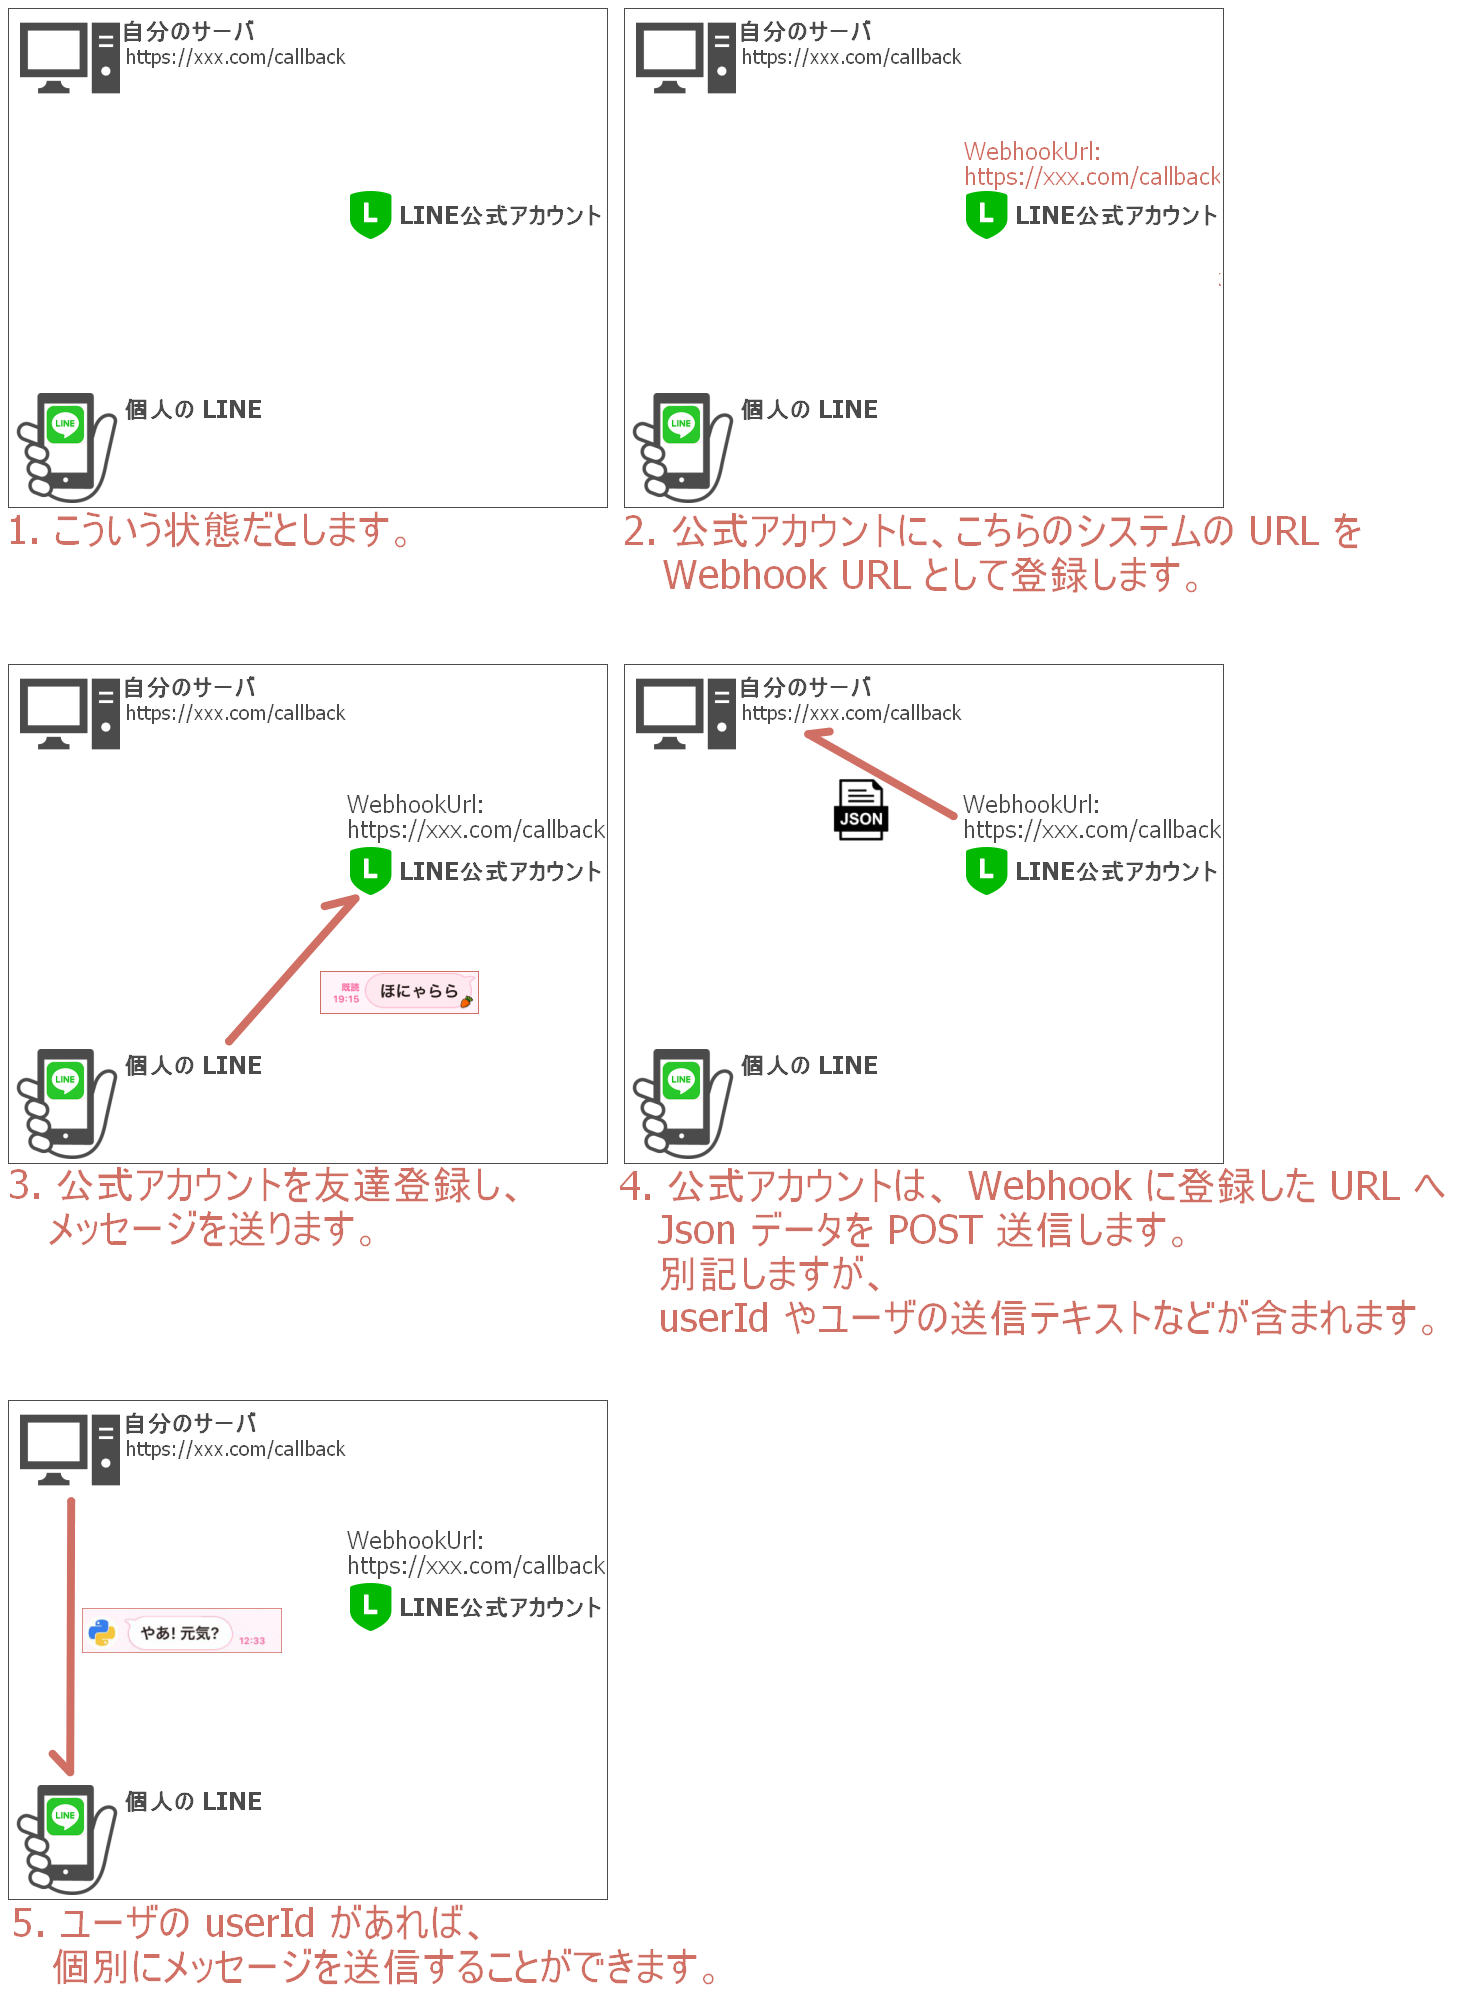
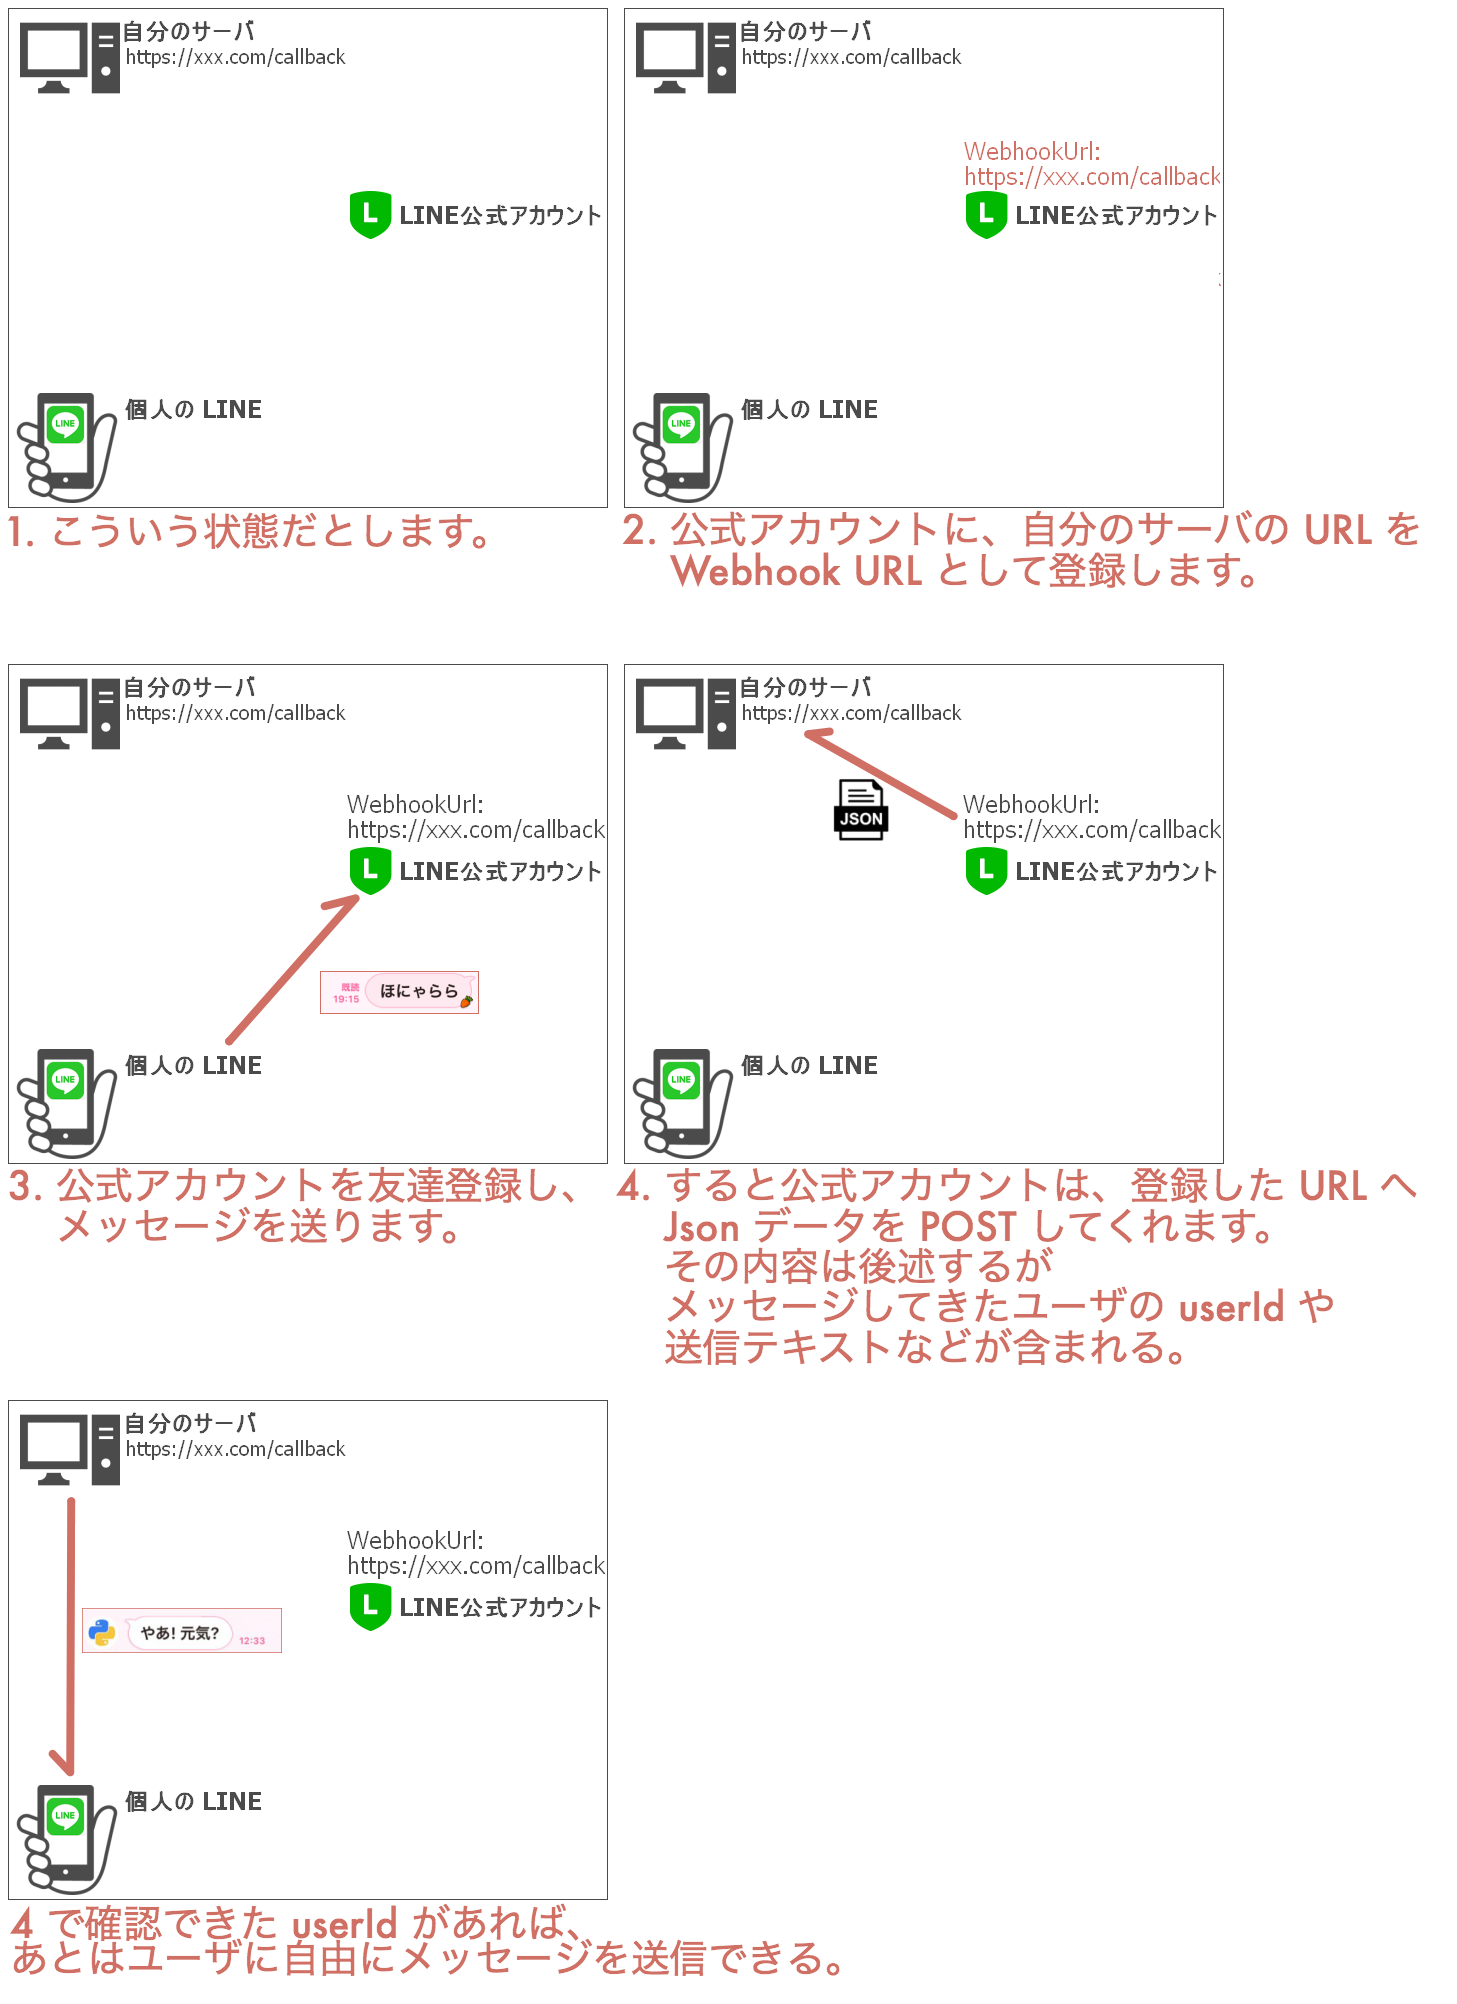
PythonLineMessagingApi

diff --git a/51_Qiita/(2019-10-29)PythonLineMessagingApi.md b/51_Qiita/(2019-10-29)PythonLineMessagingApi.md
@@ -1,47 +1,75 @@
 【LINE Messaging API】みんなの LINE へプログラムからメッセージを送りたい
 ===
 
-## やりたいこと
+## 概要
 
-- 友達登録したユーザに個別のメッセージを送りたい。
-- API とか利用して、プログラムからそれを行いたい。
+- 友達登録したユーザに個別にメッセージを送りたい。
+- プログラムからそれを行いたい。
 
-図説するとこんな感じになる。
+![](media/line18.jpg)
 
-![](media/line17.png)
+同じような内容のページはすでにネットにある。  
+だけれど自分が持った次のような疑問に、ストレートに応えるページがあってもいいかな、と思い、同じような疑問をもつ誰かに刺さるよう記事をかく。
+
+## もった疑問
+
+- 「LINE プログラムからメッセージ送信」と調べてみたけれど、 LINE Notify とか LINE公式アカウントとか LINE@ とか出てきてようわからん。
+- 送信をしたいだけなのに、ネットの記事をみると「さてサーバを用意しよう」と突然サーバが出てきて困惑。
+
+ざっくり簡単に回答すると……
+
+- 使うのは、 LINE公式アカウントを取得したあとに利用できる LINE Messaging API。
+- 「送信する」のは自分のぱそこから(サーバなしで)出来るんだけれど、送信先を指定するためには送信先ユーザの ID が必要なんだ。それを取得するために、サーバが必要になってしまう。でも Heroku で無料で出来るから大丈夫。
 
 ## なぜ LINE Messaging API
 
-似たような、しかしやりたいことができないサービスがあってややこしかった。サービスを選ぶとき迷っちゃったので記載しておく。
+「LINE Notify とか LINE公式アカウントとか LINE@ とか出てきてようわからん」に応える。
 
 - **LINE Notify**
     - 自分か自分の含まれるグループへメッセージを送れる。
     - プログラムから送れる。
     - しかし友達へ個別に送ることはできなさそう。
 - **LINE公式アカウント**
-    - 公式アカウントを作り、友達登録をしたユーザに一斉送付が出来る。個人メッセもできる。
+    - 公式アカウントを作ると、友達登録をしたユーザに一斉送付が出来る。個人メッセもできる。
     - しかしそれらはすべてブラウザから手打ちで、自動で個人にメッセすることはできないみたい。
+- **LINE@**
+    - 2018年の終わりに公式アカウントに統合された。コイツのことはもう忘れていい。
+    - 参考: [【重要】LINE@サービス統合のお知らせ](http://blog-at.line.me/archives/52626249.html)
 - **LINE Messaging API**
     - 公式アカウントの中に含まれる機能。
-    - 「やりたいこと」ができる。
+    - やりたいことができる。
 
 というわけで、まず LINE公式アカウントを作成して、それから LINE Messaging API を利用することになる。
 
-## 料金
+### 料金
 
-[LINE公式アカウントとは丨料金紹介](https://www.linebiz.com/lp/line-official-account/plan/)に載っている。たぶん、自動返信については無料でいくらでも使えて、 push 機能(能動的送信)については1,000通まで無料で使える。
+[LINE公式アカウントとは丨料金紹介](https://www.linebiz.com/lp/line-official-account/plan/)に載っている。たぶん、自動返信については無料でいくらでも使えて、 push 機能(能動的送信。今回やりたいことのゴール)については1,000通まで無料で使える。
 
 
-## LINE Developers でチャネルを作成
+## これから作るものを図にして整理
 
-この作業をするとき、「LINE Developers」のページと「LINE Official Account Manager」のページがややこしい。
+図説するとこんな感じになる。図をみると、なんでサーバが必要になるのかわかると思う。
 
-- Line Developers: [https://developers.line.biz/](https://developers.line.biz/)
-- Line for business: [https://manager.line.biz/](https://manager.line.biz/)
+![](media/line17.png)
 
-そして「チャネル」「プロバイダ」あたりの用語もややこしい。チャネルはプロバイダの子要素にあたる。ひとつのプロバイダに対し複数のチャネルを作成できる。チャネルが LINE の対話相手になる。
+## チャネルを作成
+
+各ユーザにメッセージを送るのは「LINE公式アカウント」ではない。「チャネル」なのだ。
+
+![](media/line15.jpg)
+
+この左側、会話相手は公式アカウントではなくチャネル。だからまず「LINE公式アカウント」を作って、その子要素の「プロバイダ」を作って、その子要素の「チャネル」を作ることになる。
+
+- **LINE公式アカウント**
+    - [https://developers.line.biz/](https://developers.line.biz/) からどうぞ。
+- **プロバイダ**
+    - 突然出てきた「プロバイダ」はアプリを提供する組織のことで、自分の名前や企業名を入力するものらしい。が、自分の名前は LINE公式アカウントに紐付いており自分の名前をここで使う違和感がある……。
+- **チャネル**
+    - LINE に表示させたい名前をつければいい。
 
 ### 新規チャネル作成まで
+
+「LINE公式アカウント」と「プロバイダ」はすでに作った前提で進めてみる。
 
 ![](media/line01.jpg)
 
@@ -59,6 +87,8 @@
 
 ![](media/line08.jpg)
 
+チャネルを作り、友達登録をしてしまえば、この時点で [https://manager.line.biz/](https://manager.line.biz/) 上で会話ができる。
+
 ### トークン類の取得
 
 チャネル基本設定から、「Channel Secret」と「アクセストークン」を取得する。
@@ -68,13 +98,17 @@
 ![](media/line10.jpg)
 
 
-## Python スクリプト作成
+## サーバを用意
 
-ぼくの場合、 pipenv を使うのでこんなふうに環境を準備。
+上述したように、誰かにメッセージを自動送信するためにはそのユーザの ID が必要だ。ユーザの ID は、一度ユーザからチャネル宛にメッセージを送ってもらい、そのときチャネルが自分のサーバに送信してくれる Json の中から取得できる。次は、サーバに配置するウェブアプリを Python で作成する。
+
+
+### Python スクリプトを作成
+
+自分の場合、 pipenv を使うのでこんなふうに環境を準備。
 
 ```bash
 pipenv install flask line-bot-sdk gunicorn
-pipenv shell
 ```
 
 Python スクリプトは my_flask_script.py って名前にしてみた。ベースのコードは [line-bot-sdk のドキュメント](https://github.com/line/line-bot-sdk-python#synopsis)から取得し、そこへ手を加えた。
@@ -152,7 +186,7 @@ if __name__ == '__main__':
 ```
 
 
-## Heroku 用ファイル作成
+### Heroku 用ファイル作成
 
 ```bash
 # runtime.txt: Python のバージョンを記載。
@@ -165,10 +199,12 @@ pip freeze > requirements.txt
 echo web: gunicorn my_flask_script:app --log-file - > Procfile
 ```
 
-Procfile は `web: python my_flask_script.py` ではなぜだか動かなかった。
+Procfile は `web: python my_flask_script.py` ではなぜだか動かなかった。Procfile の `--log-file` はログを吐くオプション。 `-` は stdout を指す。これを設定することでのちに `heroku logs --tail` によるログ確認ができる。
 
 
-## Heroku へアップ
+### Heroku へアップ
+
+Heroku のアカウントはすでに持っているという前提でざくざく進める。
 
 ```bash
 # Git リポジトリ作成。
@@ -204,12 +240,12 @@ git push heroku master
 
 チャネル基本設定のページで Webhook URL を登録し、 Webhook送信 を有効にする。上の Python スクリプトで、 callback を受け付ける URL は `/callback` にしたので、今回の Webhook URL は `https://line-messaging-py-py-py.herokuapp.com/callback` になる。
 
-これはよくわからないのだけれど、「接続確認」をすると赤文字が出て我々を不安にさせる。だがこのまま進んでも問題なさそう。
+これはよくわからないのだけれど、「接続確認」をすると赤文字が出て我々を不安にさせる。だがこのまま進んでも問題なかった……。
 
 ![](media/line12.jpg)
 
 
-## 使ってみる(reply_message)
+## reply_message を使ってみる
 
 チャネル基本設定のページの下の方に QR コードがあるので、そこからこのチャネルを友達登録する。
 
@@ -255,9 +291,9 @@ event.source.user_id
 ```
 
 
-## push_message を使う
+## push_message を使ってみる
 
-上で書いた Python スクリプトだけでは、返事しかできない。そうではなく、サーバ側から能動的にメッセージを送れるようにしたい。それは上で控えた「アクセストークン」と「userId」を使用すればできる。もちろんこれは Heroku にアップする必要はなく、ローカルから試せる。
+今回のゴールだ。上で控えた「アクセストークン」と「userId」を使用すれば能動的にメッセージ送信ができる。もちろんこれは Heroku にアップする必要はなく、ローカルから試せる。
 
 ```python
 from linebot import LineBotApi
@@ -275,5 +311,4 @@ line_bot_api.push_message(
 
 ![](media/line16.jpg)
 
-このとおり、ユーザごとにユニークである `user_id` をおさえておればいつでもメッセージを送付することができることがわかる。
-
+このとおり、ユーザごとにユニークである `user_id` をおさえておればいつでもメッセージを送付することができることがわかる。おわり。長い記事になってしまった……。
